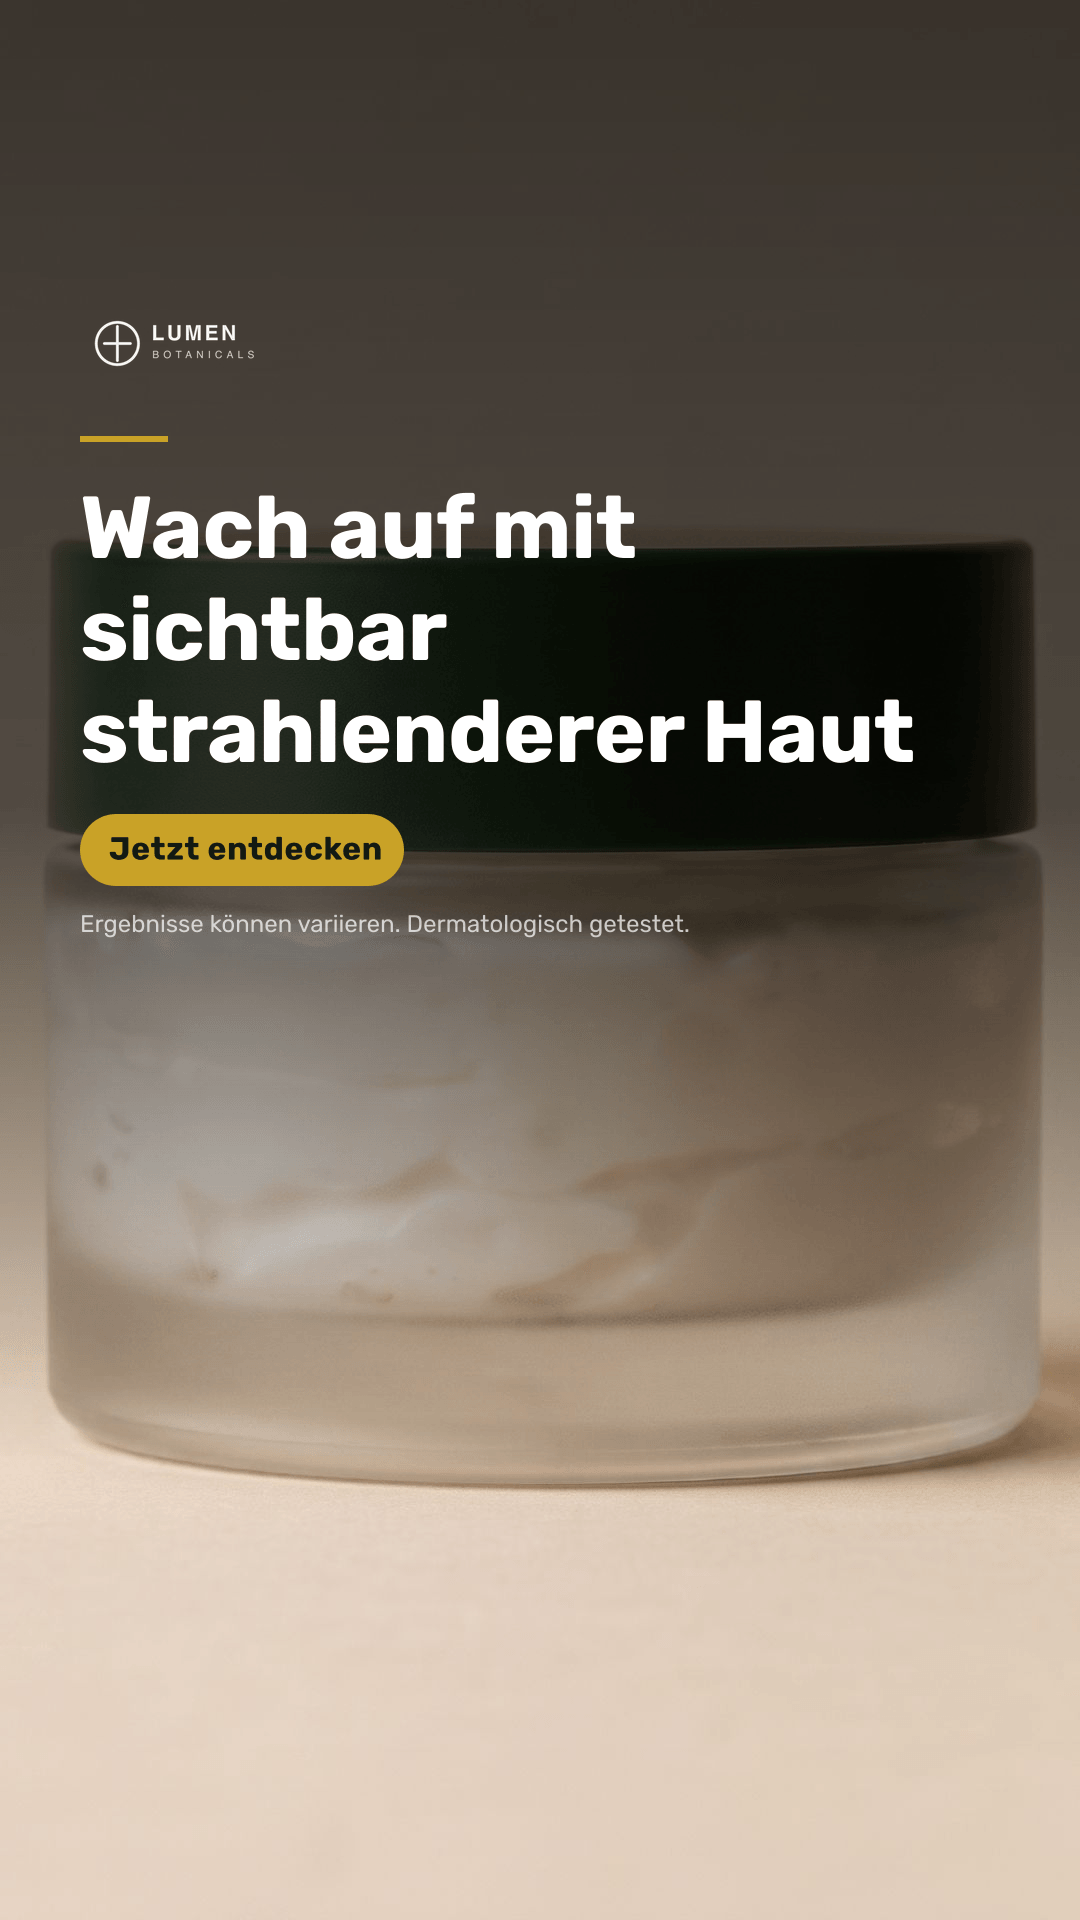
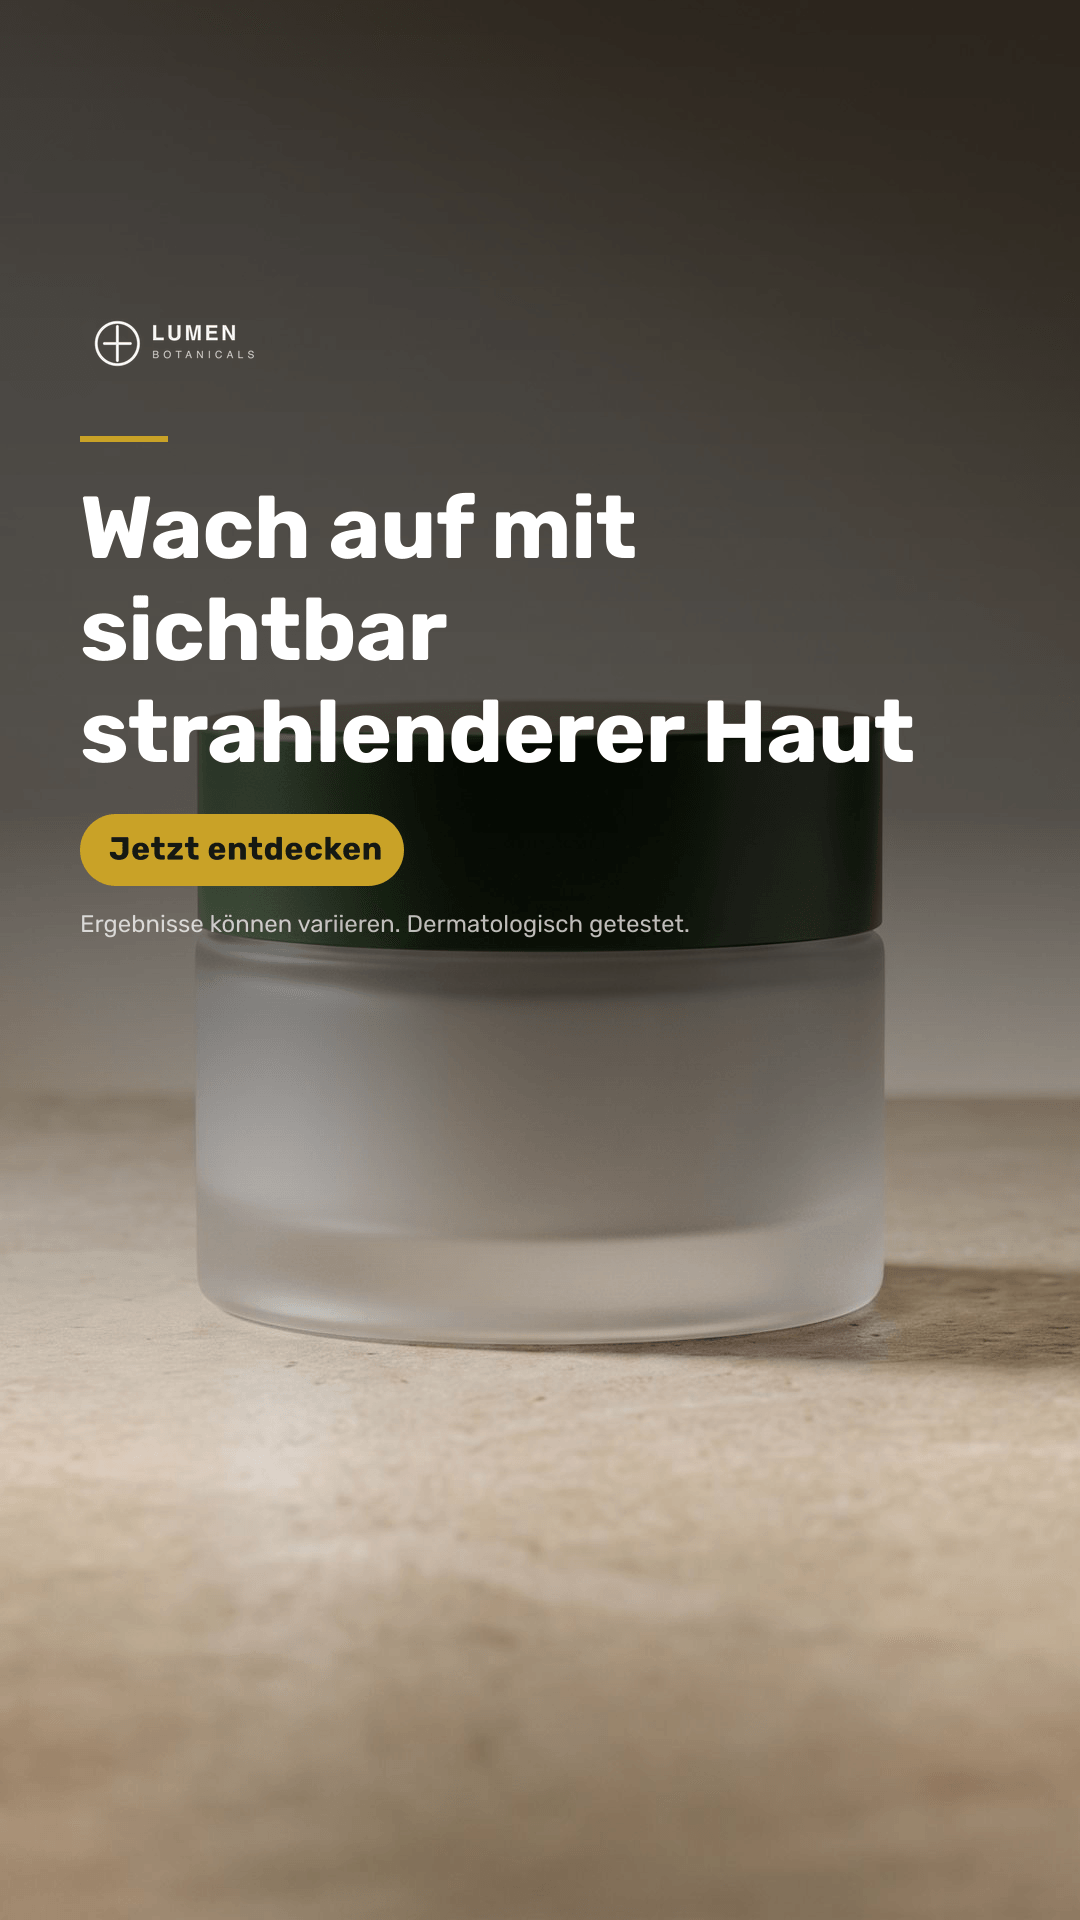
Art-direct the hero prompt so the product is shippable
The generated jar was lumpy at full resolution -- the model was rendering cream
through the frosted glass, which reads as spoiled product. The prompt was a
description, not a brief.

It is now written as a photographic brief: long macro at a closed aperture and
focus stacked so the whole product is sharp, soft directional key with open
fill and an edge kicker, honed stone set, correct glass transmission and a
crisp specular roll-off on the cap, retouched to catalogue standard. The clause
that actually fixed it: the container is closed and opaque and its contents are
not visible.

Two things this cost a generation each to learn, and both are in the comments.
Naming lighting equipment renders the equipment -- 'a softbox at 45 degrees'
put an actual softbox in frame. And the model ignores framing expressed as
percentages: 'no more than 45% of the image width' produced a jar that filled
the square and got sliced by the 9:16 crop, while photographic language --
wide shot, small and distant in a large empty set -- produced exactly the
framing the crop needs.

Sample output and screenshots refreshed from the run that produced it.

diff --git a/src/assetResolver.ts b/src/assetResolver.ts
@@ -175,27 +175,89 @@ export async function findApprovedHero(maybePath?: string): Promise<string | und
  * Deterministic art direction. Pure string composition -- no LLM call, so the
  * same brief always produces the same prompt and the same cache key.
  *
- * Everything here is aimed at one goal: a hero that survives being re-cut into
- * three very different shapes. Hence centred subject, generous negative space,
- * and an explicit ban on typography the compositor is going to draw itself.
+ * This is written as a photographic brief rather than a description, because
+ * that is the difference between a stock-looking render and something a brand
+ * would run. Every clause below is a decision a photographer or retoucher would
+ * actually make on a beauty shoot:
+ *
+ *   optics    a long macro at a closed aperture, focus stacked -- the whole
+ *             product sharp front to back. Shallow depth of field looks
+ *             cinematic and destroys the packaging detail a brand is paying for.
+ *   light     large soft key at 45 degrees, bounce fill opposite, a narrow
+ *             kicker to draw an edge and lift the product off the background.
+ *   set       honed stone or matte plaster, seamless tonal falloff.
+ *   material  frosted glass has to transmit light correctly; a lacquered cap
+ *             needs a crisp specular roll-off or it reads as untextured 3D.
+ *   contents  the vessel is CLOSED and opaque. This one is load-bearing: asked
+ *             for an open or translucent jar, the model renders the cream
+ *             inside, and at 2K it comes out lumpy and curdled -- the single
+ *             worst artefact in the first version of these creatives.
+ *   retouch   catalogue standard, stated explicitly, because "professional"
+ *             alone does not remove dust, fingerprints or warped ellipses.
+ *
+ * Reference is the category standard set by premium beauty campaigns -- the
+ * craft conventions, not anyone's imagery. Style is not copyrightable and none
+ * is reproduced; every pixel here is generated from this brief.
  */
 export function buildHeroPrompt(product: Product, brief: CampaignBrief): string {
   if (product.generationPrompt) return product.generationPrompt;
 
-  const tone = brief.toneOfVoice ? `Art direction tone: ${brief.toneOfVoice}.` : "";
-  const objective = brief.objective ? `Campaign objective: ${brief.objective}.` : "";
+  // The brief's prose already ends its own sentences; re-punctuating it gave
+  // "never hype..", which is the kind of thing a model happily renders around.
+  const sentence = (text?: string) => (text ? text.trim().replace(/\.*$/, "") : "");
+  const tone = brief.toneOfVoice ? `Art direction: ${sentence(brief.toneOfVoice)}.` : "";
+  const objective = brief.objective ? `Campaign objective: ${sentence(brief.objective)}.` : "";
 
   return [
-    `Professional commercial advertising photography of ${product.name}`,
-    `by the brand ${brief.brand.name}.`,
-    `Campaign audience: ${brief.audience}. Market: ${brief.region}.`,
+    `Premium beauty campaign photograph of ${product.name} by ${brief.brand.name}.`,
+    `Audience: ${brief.audience}. Market: ${brief.region}.`,
     objective,
     tone,
-    "The product is the hero: centred, sharp, and framed with generous negative",
-    "space on all sides so the image can be re-cropped to square, vertical and",
-    "landscape formats without cutting the product.",
-    "Clean studio lighting, soft natural shadows, calm minimal background,",
-    "premium editorial colour grading.",
+
+    // Optics -- the whole product sharp, not a shallow-focus mood shot.
+    "Shot on a 100mm macro lens at f/9, focus stacked so the entire product is",
+    "critically sharp from front to back. Tripod, no motion blur.",
+
+    // Light -- named positions, controlled speculars.
+    "Lighting is soft and directional from the upper left, with open fill from",
+    "the right and a narrow highlight raking the product's edge to separate it",
+    "from the background. Highlights are controlled and rolled off, never blown;",
+    "shadows are soft and open. The lighting is felt, not seen: no softbox,",
+    "reflector, light stand, modifier or any studio equipment appears in frame.",
+
+    // Set and colour.
+    "The product stands on a honed stone or matte plaster surface against a",
+    "seamless background with a gentle tonal gradient. Restrained tonal colour",
+    "grade, sympathetic to the brand palette without tinting the product itself.",
+
+    // Material truth -- where AI product shots usually fail.
+    "Materials must read as real: frosted glass transmits light correctly with a",
+    "crisp polished rim, and the cap is smooth lacquered metal or resin with a",
+    "clean specular roll-off and a precise machined edge.",
+
+    // The decisive constraint.
+    "The container is CLOSED with its cap fully seated, and is opaque: the",
+    "contents are NOT visible. Do not render cream, lotion, product texture or",
+    "any substance inside or on the vessel.",
+
+    // Composition, so one hero survives every crop.
+    // Width, not height, is the binding constraint: a 9:16 crop of a square
+    // discards ~41% of the width, so anything wider than about half the frame
+    // gets its edges sliced. This is the clause that keeps one generation
+    // usable across every channel format.
+    "WIDE SHOT. The camera is pulled well back and the product is SMALL and",
+    "distant in a large empty set -- a single small jar alone on a wide expanse",
+    "of surface. The product occupies only the central third of the image and",
+    "is surrounded by a large amount of empty space on every side. Most of this",
+    "picture is background. Do not fill the frame with the product; do not crop",
+    "it; the entire product including its base is visible with room to spare.",
+
+    // Retouch standard, stated rather than implied.
+    "Retouched to catalogue standard: dust-free, fingerprint-free, symmetrical,",
+    "circular openings drawn as true undistorted ellipses. No lumps, no curdling,",
+    "no smears, no double lids, no warped geometry, no visible seams, and no",
+    "second product, prop or duplicate of the item anywhere in the frame.",
+
     "Absolutely no text, no lettering, no typography, no logos, no watermarks,",
     "and no packaging claims of any kind in the image.",
   ]
